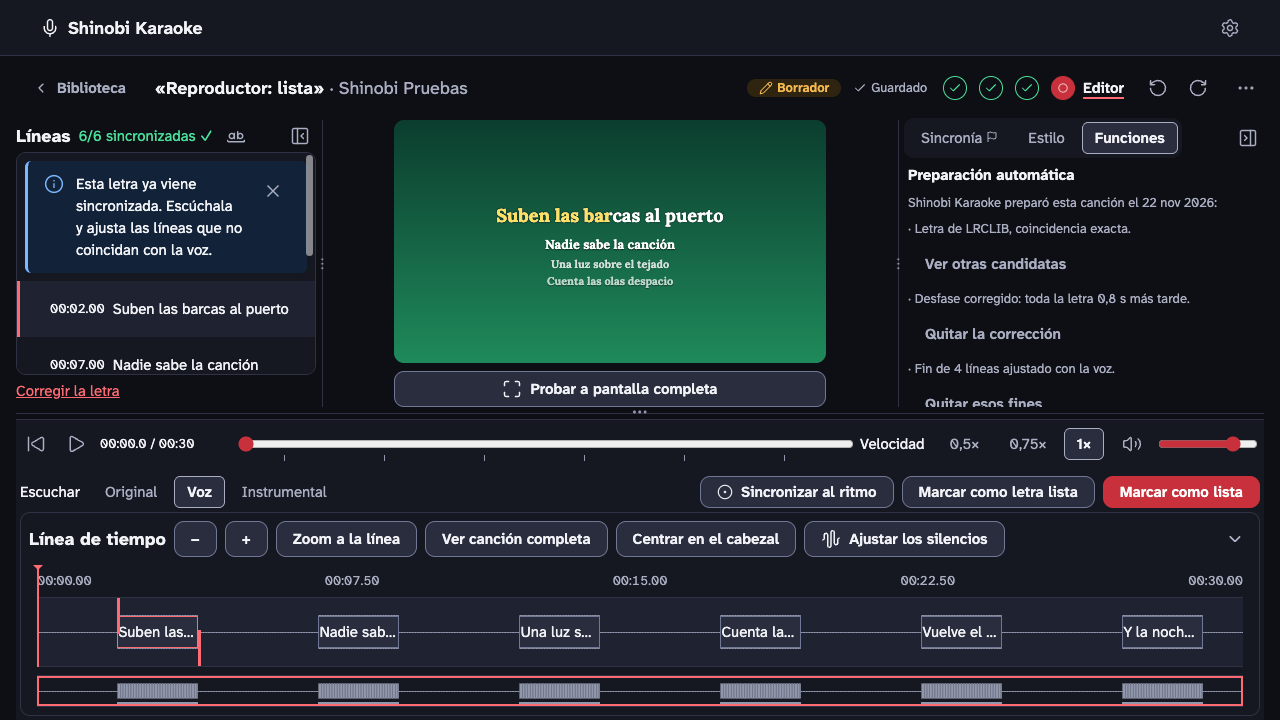
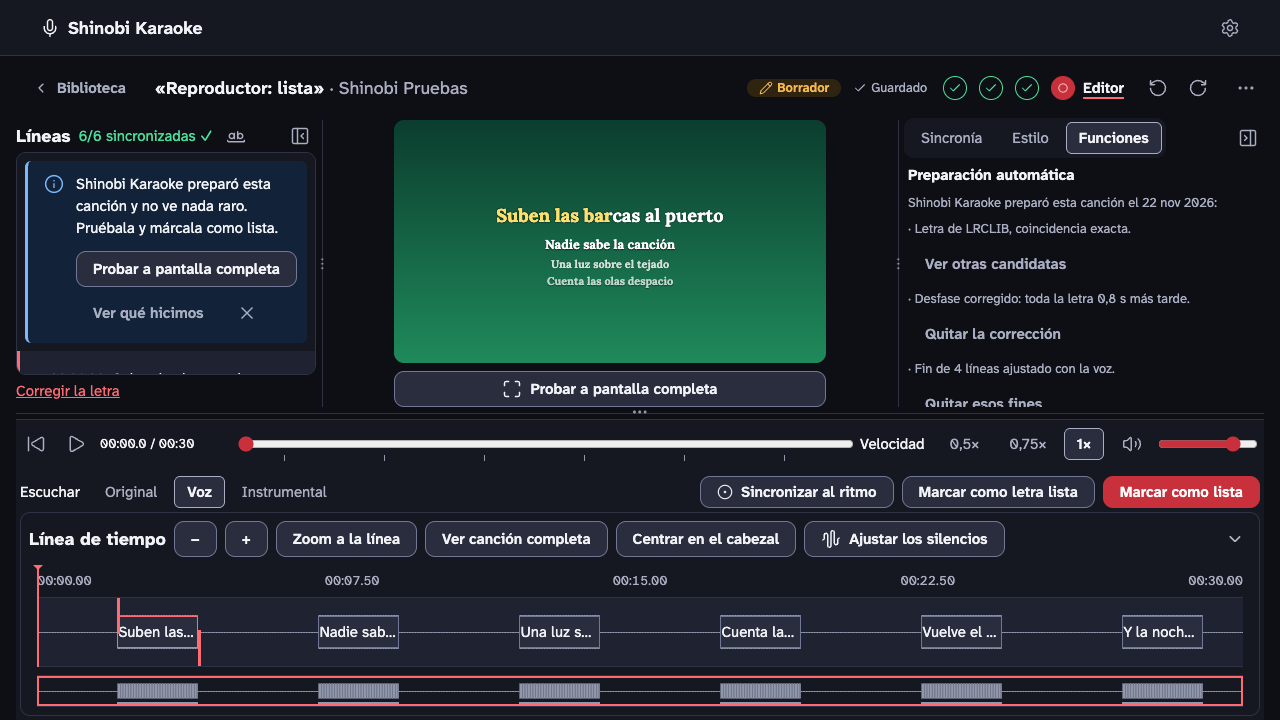
Opción prudente del encaje en las specs (No está claro con motivo, «Ajustar los fines…» con confirmación); tareas 0315 y 0316 hechas; pregunta 0285
Claude-Session: https://claude.ai/code/session_01CwzfmPpxsz6LQucdx3rwJV

Changed region(s): [[0.0, 0.2139, 0.25, 0.4583], [0.7812, 0.1528, 0.9375, 0.2139], [0.0312, 0.4889, 0.2188, 0.5194]]

diff --git a/ux/05-letra.md b/ux/05-letra.md
@@ -246,14 +246,18 @@ La comprobación da un **veredicto** por letra:
 
 | Veredicto | Qué significa para el usuario | Icono y color | Texto en el candidato |
 |---|---|---|---|
-| `coincide` | Las líneas empiezan donde empieza la voz. | `check` · `exito` | `let.comp.coincide` |
+| `coincide` | Las líneas empiezan donde empieza la voz **y** la comprobación habría notado si la letra fuera movida (revisión 2026-11-22, ADR 0024: contraste suficiente y voz con pausas). | `check` · `exito` | `let.comp.coincide` |
 | `desfasada` | Toda la letra va adelantada o atrasada la misma cantidad `d` (entre 0,5 s y 5 s); movida esa cantidad, coincide. | `move-horizontal` · `info` | `let.comp.adelantada` / `let.comp.atrasada` |
-| `dudosa` | Ni encaja con claridad ni falla con claridad (mucha voz sin letra por coros, pocas líneas, voz muy tenue). | `circle-help` · `texto-2` | `let.comp.dudosa` |
+| `dudosa` | Ni encaja con claridad ni falla con claridad (mucha voz sin letra por coros, pocas líneas, voz muy tenue), **o la comprobación no puede saberlo con esta voz o esta letra** (`limitacion`, abajo). | `circle-help` · `texto-2` | `let.comp.dudosa` (sin limitación) · `let.comp.dudosa.limitada` (con limitación) |
 | `no_coincide` | Muchas líneas caen en silencio o hay tramos largos de voz sin letra, también después de probar a moverla. Un desfase que no es constante entra aquí: no se arregla moviendo. | `triangle-alert` · `aviso` | `let.comp.noCoincide` |
 | `pendiente` | Aún no hay voz separada o su forma de onda se está preparando. | `clock` · `texto-3` | `let.comp.pendiente` |
 | `no_disponible` | No se pudo leer la voz (pistas que faltan, error de la forma de onda). | — · `texto-3` | `let.comp.noDisponible` |
 | (sin tiempos) | Letra «Solo texto». | — | No se muestra línea de comprobación. |
 
+- **Limitación de la comprobación** (revisión 2026-11-22, [ADR 0024](../adr/0024-encaje-de-la-letra-con-la-voz-y-lineas-dudosas.md) «Medida con canciones reales», respuesta a [0275](../preguntas/0275-la-correccion-de-desfase-no-funciona-con-letras-sin-fines-y-las-constantes-no-aguantan.md); provisional, [0280](../preguntas/0280-que-hace-hoy-la-comprobacion-de-la-letra-con-tus-canciones.md)). Un veredicto `dudosa` puede traer `limitacion`:
+  - `vozContinua`: la voz suena casi sin pausas; con ella no se puede saber si la letra es la correcta ni si va adelantada.
+  - `sinContraste`: mover la letra un poco casi no cambia el resultado (típico de las letras de LRCLIB que solo traen el inicio de cada línea), así que no se puede saber si va adelantada o atrasada.
+  Con una limitación **no es un aviso ni un error**: es información. Se pinta igual que `dudosa` (icono `circle-help`, `texto-2`, nunca `aviso`), **nunca se propone corregir el desfase** ni se ofrece «Buscar otra letra» como acción destacada, y los textos dicen qué no se pudo comprobar y qué puede hacer la persona (escucharla y ajustarla a oído en el editor; con `sinContraste`, poner el fin de las líneas ayuda). Todos acaban dejando claro que no se ha cambiado nada. Con letras de LRCLIB sin fines, «No está claro» será lo habitual (provisional, 0154 n.º 19).
 - **«Adelantada»** = la letra sale antes que la voz; se corrige moviéndola **más tarde**. «Atrasada», al revés.
 - El desfase se muestra con un decimal («0,8 s») y se aplica con precisión de milisegundo. Por debajo de 0,5 s no se propone nada: es `coincide` (valor del [ADR 0024](../adr/0024-encaje-de-la-letra-con-la-voz-y-lineas-dudosas.md) §1, medido con la biblioteca del usuario: por debajo, la medida no distingue una letra correcta; pregunta [0159](../preguntas/0159-decisiones-provisionales-del-arquitecto-de-0-2-2.md) n.º 7).
 - Los umbrales entre veredictos los fija el arquitecto y los calibra QA con las 12 canciones Lista del usuario (ADR de la feature 4). La spec fija el comportamiento: ante la duda, `dudosa`, nunca una corrección.
@@ -380,7 +384,11 @@ La comprobación da un **veredicto** por letra:
 | `let.comp.pendiente` | Se comprobará con tu audio al terminar la separación |
 | `let.comp.noDisponible` | No se pudo comprobar con tu audio |
 | `let.comp.desfase.ayuda` | Toda la letra sale {d} s antes que la voz. Al usarla la moveremos {d} s más tarde. Los tiempos de abajo ya están corregidos. · (atrasada) Toda la letra sale {d} s después que la voz. Al usarla la moveremos {d} s antes. Los tiempos de abajo ya están corregidos. |
-| `let.comp.dudosa.ayuda` | Parte de la letra coincide con la voz y parte no. Puede deberse a coros o a partes sin letra. Escúchala en el editor antes de darla por buena. |
+| `let.comp.dudosa.ayuda` | Parte de la letra coincide con la voz y parte no. Puede deberse a coros o a partes sin letra. Escúchala en el editor antes de darla por buena. (Solo sin `limitacion`.) |
+| `let.comp.dudosa.limitada` | No podemos comprobarla con tu audio |
+| `let.comp.limitacion.vozContinua` | En esta canción la voz suena casi sin pausas, así que no podemos comprobar con ella si la letra es la correcta ni si va adelantada o atrasada. No hemos cambiado nada. Escúchala en el editor y, si hace falta, ajústala a oído. |
+| `let.comp.limitacion.sinContraste` | Esta letra solo marca dónde empieza cada línea, no dónde acaba, así que no podemos saber si va adelantada o atrasada. No hemos cambiado nada. Escúchala en el editor; si pones el fin de las líneas, la comprobación podrá ayudarte. |
+| `let.comp.actual.limitada` | No podemos comprobar esta letra con tu audio: {motivo corto}. No hemos cambiado nada. — `{motivo corto}`: (vozContinua) la voz casi no tiene pausas · (sinContraste) la letra no marca dónde acaba cada línea |
 | `let.comp.noCoincide.ayuda` | Puede ser otra versión de la canción. Prueba con otra letra o revísala en el editor. |
 | `let.comp.detalle.silencio` | {n} de {total} líneas caen donde no hay voz (de {a} a {b}). · (varios tramos) {n} de {total} líneas caen donde no hay voz. · (n = 1) 1 de {total} líneas cae donde no hay voz ({a}). |
 | `let.comp.detalle.vozSinLetra` | Hay voz sin letra de {a} a {b}. · (varios) Hay voz sin letra en {k} tramos; el más largo, de {a} a {b}. |
@@ -390,7 +398,7 @@ La comprobación da un **veredicto** por letra:
 | `let.comp.actual.corregida` | Movimos toda la letra {d} s más tarde para que coincida con la voz. — [Quitar la corrección] · (atrasada) Movimos toda la letra {d} s antes para que coincida con la voz. — [Quitar la corrección] |
 | `let.comp.actual.adelantada` | Toda la letra va {d} s adelantada respecto a la voz. — [Corregir el desfase] |
 | `let.comp.actual.atrasada` | Toda la letra va {d} s atrasada respecto a la voz. — [Corregir el desfase] |
-| `let.comp.actual.dudosa` | No está claro si la letra coincide con la voz. Escúchala en el editor. |
+| `let.comp.actual.dudosa` | No está claro si la letra coincide con la voz. Escúchala en el editor. (Solo sin `limitacion`; con ella, `let.comp.actual.limitada`.) |
 | `let.comp.actual.noCoincide` | La letra no coincide con la voz de tu audio: puede ser otra versión. — [Ver por qué] [Buscar otra letra] |
 | `let.comp.actual.pendiente` | La comprobaremos con tu audio al terminar la separación. |
 | `let.comp.boton.corregir` | Corregir el desfase |
@@ -406,7 +414,7 @@ La comprobación da un **veredicto** por letra:
 ### Criterios de aceptación (0.2.2 · feature 4, Letra)
 
 - F4-L1. Con la voz separada, cada candidato con tiempos muestra su línea de comprobación con icono y texto según la tabla de veredictos; un candidato «Solo texto» no la muestra. Con veredicto concluyente no se muestra la línea de duración; con `dudosa`, `pendiente` o `no_disponible`, sí.
-- F4-L2. Con fixtures de picos y letra (test de la función pura): una letra con los inicios sobre los arranques de voz da `coincide`; la misma movida −800 ms da `desfasada` con `d = 800 ms` ± 50 ms («adelantada»); movida +1500 ms, «atrasada»; la letra de otra canción da `no_coincide`; una letra con un desfase que crece de 0 a 3 s da `no_coincide` con `let.comp.detalle.variable`; una letra con 2 líneas da «sin comprobar».
+- F4-L2. Con fixtures de picos y letra (test de la función pura): una letra con los inicios sobre los arranques de voz da `coincide`; la misma movida −800 ms da `desfasada` con `d = 800 ms` ± 50 ms («adelantada»); movida +1500 ms, «atrasada»; la letra de otra canción da `no_coincide`; una letra con un desfase que crece de 0 a 3 s da `no_coincide` con `let.comp.detalle.variable`; una letra con 2 líneas da «sin comprobar». Además (revisión 2026-11-22): con voz casi continua (≥ 90 % de bloques con voz), la letra correcta da `dudosa` con `limitacion: "vozContinua"` y nunca propone corrección; una letra **sin fines** desplazada 800 ms **nunca** da `coincide` (da `dudosa` con `sinContraste`, o `desfasada` si la curva tiene pico). En la interfaz, cada limitación muestra `let.comp.dudosa.limitada` en el candidato, su texto `let.comp.limitacion.*` en la vista previa y `let.comp.actual.limitada` en C, con icono `circle-help` en `texto-2` y sin [Corregir el desfase].
 - F4-L3. La lista sale ordenada por los cuatro grupos de «Orden» y, dentro de cada uno, como en el criterio 3 original; el primero queda seleccionado con su vista previa.
 - F4-L4. Al seleccionar un candidato `desfasada`, la vista previa muestra `let.comp.desfase.ayuda` y los tiempos ya corregidos; al seleccionar uno `no_coincide`, los motivos con sus tramos en m:ss.
 - F4-L5. «Usar esta letra» sobre un candidato `desfasada` guarda en `cancion.json` los `inicio_ms`, `fin_ms` y palabras **idénticos** a los del candidato (comparación exacta en ms), `letra.offset_ms = d` redondeado a 10 ms y `letra.desfase_corregido_ms = d`; C muestra `let.comp.actual.corregida`. [Quitar la corrección] deja `offset_ms` en el valor previo (0) y sin `desfase_corregido_ms`, sin tocar ningún tiempo de línea, y muestra la propuesta con [Corregir el desfase], que vuelve a corregir.
@@ -416,7 +424,9 @@ La comprobación da un **veredicto** por letra:
 - F4-L9. Pegar o importar un LRC muestra en C su veredicto; una letra sin tiempos no muestra línea de comprobación.
 - F4-L10. El nombre accesible de cada opción incluye su comprobación; `let.comp.llegada` se anuncia una vez sin mover el foco; corregir y quitar se anuncian con `let.comp.anuncio.*`. Todo es operable con teclado.
 - F4-L11. Un fallo de escritura al corregir o quitar deja los tiempos como estaban y muestra `let.comp.error.guardar`.
-- F4-L12. Capturas en `docs/ux/revisiones/0.2.2-feature-4/`, nombre `letra-1280x800-100-{estado}.png`: `candidatos-comprobados`, `candidato-desfasado`, `candidato-no-coincide`, `comprobacion-pendiente`, `aviso-llegada`, `actual-corregida`, `actual-propuesta`, `actual-no-coincide`.
+- F4-L12. Capturas en `docs/ux/revisiones/0.2.2-feature-4/`, nombre `letra-1280x800-100-{estado}.png`: `candidatos-comprobados`, `candidato-desfasado`, `candidato-no-coincide`, `comprobacion-pendiente`, `aviso-llegada`, `actual-corregida`, `actual-propuesta`, `actual-no-coincide`, y (revisión 2026-11-22) `candidato-limitado` (un candidato de LRCLIB sin fines con `sinContraste` seleccionado) y `actual-limitada`.
+
+**Verificación manual** (guía de `docs/Test-manuales/0.2.2/`, revisión 2026-11-22): con una letra correcta, el veredicto debe ser «Coincide» **o** «No está claro» **con su motivo**, y **nunca** «No coincide». Con una letra de LRCLIB que solo trae el inicio de cada línea, lo esperado es «No está claro». Comprobar que el texto no suena a error y no ofrece corregir nada. La corrección de ±0,8 s se prueba con una canción con pausas y con fines puestos.
 
 **Verificación manual** (guía de `docs/Test-manuales/0.2.2/`): con tres canciones reales ya Listas, abrir Letra › «Buscar otra letra» y comprobar que la letra correcta sale como «Coincide»; con un LRC de esas mismas canciones movido a mano 1 s (editando las marcas), importarlo y comprobar que sale «atrasada 1,0 s» y que al corregir coincide al cantarla; con la letra de una versión en directo, comprobar que sale «No coincide» o «No está claro», nunca una corrección; anotar cualquier canción con coros largos que salga como «No está claro» para calibrar.
 
@@ -478,6 +488,7 @@ Origen: [plan 0.2.2, feature 5](../versiones/0.2.2/plan-4.md) y [propuesta 020](
 | `let.prep.motivo.sinArtista` | falta el artista de la canción: escríbelo arriba y vuelve a buscar, o elige tú (tiene prioridad sobre los demás motivos cuando el artista está vacío; respuesta a 0244 n.º 3) |
 | `let.prep.motivo.sinExacta` | aunque alguna encaja con tu audio, ninguna coincide a la vez en título, artista y duración con tu canción · (ninguna encaja con el audio) ninguna coincide a la vez en título, artista y duración con tu canción |
 | `let.prep.motivo.duda` | no está claro que coincida con tu audio |
+| `let.prep.motivo.limitada` | no podemos comprobarlas con tu audio: la voz casi no tiene pausas o las letras no marcan dónde acaba cada línea (cuando el mejor candidato es `dudosa` con limitación; revisión 2026-11-22) |
 | `let.prep.motivo.noCoincide` | ninguna coincide con tu audio |
 | `let.prep.motivo.soloTexto` | solo hay letras sin sincronizar |
 | `let.prep.motivo.sinComprobar` | no pudimos comprobarla con tu audio |

diff --git a/ux/06-editor.md b/ux/06-editor.md
@@ -2767,7 +2767,7 @@ Origen: [plan 0.2.2, feature 4](../versiones/0.2.2/plan-4.md) y [propuesta 022](
 | **Resultado `coincide`** | Sin diálogo: toast `edi.comprobar.toast.coincide` (`exito`, se cierra solo) y anuncio. Foco en el botón. |
 | **Resultado `desfasada`** | Diálogo «¿Corregir el desfase?» (abajo). |
 | **Resultado `no_coincide`** | Diálogo informativo «La letra no encaja con la voz» (abajo). |
-| **Resultado `dudosa`** | Diálogo informativo `edi.comprobar.dudosa` con [Cerrar]. No propone nada. |
+| **Resultado `dudosa`** | Diálogo informativo `edi.comprobar.dudosa` con [Cerrar]. No propone nada. **Con `limitacion`** (revisión 2026-11-22, [05 · Feature 4](05-letra.md#022--feature-4--comprobar-la-letra-contra-el-audio-y-corregir-el-desfase)): el mismo diálogo con el título `edi.comprobar.limitada.titulo` y el cuerpo `edi.comprobar.limitada.vozContinua` o `.sinContraste`; sin icono de aviso (icono `circle-help`, `texto-2`), sin [Corregir el desfase] ni [Buscar otra letra]; solo [Cerrar]. El banner al entrar no sale con `dudosa` (como hasta ahora). |
 | **Línea «Desfase corregido»** | Visible mientras exista `letra.desfase_corregido_ms` (corrección hecha aquí, en Letra o por la preparación automática). [Quitar la corrección] resta `desfase_corregido_ms` de `offset_ms` y borra el campo (ADR 0024 §1): la letra vuelve a sonar donde sonaba antes de corregir, en **un paso** del historial, con el toast `edi.desfase.toast.quitada` y [Deshacer]. |
 
 ### Diálogo «¿Corregir el desfase?» (480 px)
@@ -2856,7 +2856,10 @@ Al abrir el editor de un **borrador** con ≥ 5 líneas con inicio y los picos l
 | `edi.comprobar.calculando` | Comprobando… |
 | `edi.comprobar.falta.lineas` | Para comprobar la letra hacen falta al menos 5 líneas sincronizadas. |
 | `edi.comprobar.toast.coincide` | La letra coincide con la voz. |
-| `edi.comprobar.dudosa` | **No está claro si la letra coincide con la voz.** Parte coincide y parte no; puede deberse a coros o a partes sin letra. No hemos cambiado nada. — [Cerrar] |
+| `edi.comprobar.dudosa` | **No está claro si la letra coincide con la voz.** Parte coincide y parte no; puede deberse a coros o a partes sin letra. No hemos cambiado nada. — [Cerrar] (solo sin `limitacion`) |
+| `edi.comprobar.limitada.titulo` | No podemos comprobar esta letra con la voz |
+| `edi.comprobar.limitada.vozContinua` | En esta canción la voz suena casi sin pausas, así que no podemos saber si la letra va adelantada o atrasada. No hemos cambiado nada. Escúchala y, si notas que va antes o después de la voz, ajusta las líneas a oído. — [Cerrar] |
+| `edi.comprobar.limitada.sinContraste` | Esta letra solo marca dónde empieza cada línea, no dónde acaba, así que mover la letra apenas cambia nada y no podemos saber si va adelantada o atrasada. No hemos cambiado nada. Escúchala; si pones el fin de las líneas (por ejemplo con «Ajustar los silencios»), podrás volver a comprobarla. — [Cerrar] |
 | `edi.comprobar.noCoincide.titulo` | La letra no encaja con la voz |
 | `edi.comprobar.noCoincide` | Puede ser la letra de otra versión de la canción. |
 | `edi.comprobar.noCoincide.pie` | No se puede arreglar moviendo toda la letra. |
@@ -2877,7 +2880,7 @@ Al abrir el editor de un **borrador** con ≥ 5 líneas con inicio y los picos l
 ### Criterios de aceptación (0.2.2 · feature 4, editor)
 
 - F4-E1. La pestaña «Funciones» tiene la sección «Comprobar la letra con la voz» justo antes de «Ajustar los silencios» y en el orden común de la pestaña (Preparación automática · Revisar la sincronía · Sincronizar con la voz · Comprobar la letra con la voz · Ajustar los silencios · Exportar video · Exportar la letra · Modo de reproducción · Estado de la canción, omitiendo las que no existan), con su botón secundario; con menos de 5 líneas con inicio, la separación sin terminar o los picos sin preparar, el botón es `aria-disabled` y muestra su motivo debajo, que se actualiza en vivo.
-- F4-E2. Con una letra que coincide, pulsar el botón muestra `edi.comprobar.toast.coincide` y no cambia `cancion.json`.
+- F4-E2. Con una letra que coincide, pulsar el botón muestra `edi.comprobar.toast.coincide` y no cambia `cancion.json`. Con voz casi continua (fixture) muestra el diálogo con `edi.comprobar.limitada.vozContinua`; con una letra sin fines desplazada 800 ms, nunca el toast de «coincide» (diálogo con `.sinContraste`, o el de corregir si la curva tiene pico). En los dos diálogos de limitación solo hay [Cerrar] y `cancion.json` no cambia.
 - F4-E3. Con una letra movida −800 ms respecto a la voz y `offset_ms: 0` (fixture), el diálogo dice «0,8 s adelantada» y el número de líneas; «Corregir el desfase», en una sola operación del historial, deja en `cancion.json` `letra.offset_ms` = 800 ± 50 ms (múltiplo de 10) y `letra.desfase_corregido_ms` igual a ese valor, con **todos** los `inicio_ms`, `fin_ms`, textos y palabras idénticos a los previos (comparación exacta en ms). La lista, las regiones y la vista previa muestran cada línea 0,8 s más tarde. Un Ctrl/Cmd + Z deja `offset_ms` en 0, sin `desfase_corregido_ms`, y quita la línea «Desfase corregido»; con un `offset_ms` previo distinto de 0, la corrección se **suma** a él.
 - F4-E4. Una línea con tiempos por palabra hechos a mano conserva sus `palabras` idénticas en el archivo tras la corrección (comparación exacta) y se muestran movidas `d` con la letra (tiempo mostrado = tiempo guardado + `offset_ms`); no aparece `edi.toast.palabras`; el diálogo mostró `edi.desfase.palabras`.
 - F4-E5. Tras corregir, la sección muestra `edi.desfase.corregido` con [Quitar la corrección], que en un paso del historial resta `desfase_corregido_ms` de `offset_ms` (vuelve al valor previo exacto), borra `desfase_corregido_ms` y no cambia ningún tiempo de línea; la línea «Desfase corregido» también aparece si `desfase_corregido_ms` lo escribió la vista Letra o la preparación automática.
@@ -2888,7 +2891,7 @@ Al abrir el editor de un **borrador** con ≥ 5 líneas con inicio y los picos l
 - F4-E10. En los seis viewports de la subfase 2.1, la sección y los dos diálogos no producen scroll de página; a 300 px de ancho del panel el botón no se parte.
 - F4-E11. Capturas en `docs/ux/revisiones/0.2.2-feature-4/`, nombre `editor-1280x720-100-{estado}.png`: `funciones-comprobar`, `funciones-comprobar-no-disponible`, `dialogo-desfase`, `dialogo-no-encaja`, `banner-desfase`, `desfase-corregido`.
 
-**Verificación manual** (guía de `docs/Test-manuales/0.2.2/`): en una canción real, mover a mano toda la letra con un LRC editado (1 s y 3 s) y comprobar que la corrección deja el barrido sobre la voz a oído; comprobar una canción con una intro hablada o coros largos y anotar si sale «No está claro»; comprobar que el diálogo de «no encaja» lleva a tramos donde de verdad falta o sobra letra.
+**Verificación manual** (guía de `docs/Test-manuales/0.2.2/`): en una canción real, mover a mano toda la letra con un LRC editado (1 s y 3 s) y comprobar que la corrección deja el barrido sobre la voz a oído; comprobar una canción con una intro hablada o coros largos y anotar si sale «No está claro»; con una letra correcta, el resultado es «Coincide» o «No está claro» con su motivo, nunca «No coincide» (con una letra de LRCLIB sin fines, lo esperado es «No está claro»); comprobar que el diálogo de «no encaja» lleva a tramos donde de verdad falta o sobra letra.
 
 ## 0.2.2 · Feature 5 — Preparación desatendida: lo que el editor cuenta
 
@@ -2933,6 +2936,7 @@ Primera sección de la pestaña, solo si la canción tiene registro de preparaci
 | Desfase | Hay una corrección recordada. | [Quitar la corrección]: la misma acción de la feature 4 (no se repite en su sección mientras este bloque exista). |
 | Fines | La preparación fijó fines (paso «Ajustar los fines», spec 04). | [Quitar esos fines]: vuelve a **automático** el fin de las líneas que la preparación fijó **y que siguen con ese mismo valor** (las que el usuario tocó después no cambian). Un paso del historial; toast `edi.prep.toast.fines` con [Deshacer]. |
 
+- Tras «Ajustar los fines…» sobre una letra sin marca (spec 02, revisión 2026-11-22), el bloque aparece solo con el renglón de fines y su [Quitar esos fines]; la intro dice `edi.prep.intro.fines`. No hay banner al entrar por esto (la canción no fue «preparada»: el usuario lo pidió y confirmó).
 - Un renglón desaparece cuando deja de ser cierto (letra sustituida, corrección quitada, ningún fin de la preparación en pie). Sin renglones, el bloque no se muestra.
 - Los botones son fantasma; ninguno pide confirmación porque todos se deshacen con Ctrl/Cmd + Z.
 - Si la feature 10 (alineación) hizo el paso de fines, el renglón y su acción los define su sección; este bloque solo le reserva el sitio.
@@ -2944,6 +2948,7 @@ Primera sección de la pestaña, solo si la canción tiene registro de preparaci
 | `edi.banner.preparada` | Shinobi Karaoke preparó esta canción sola. Escúchala, corrige lo que no coincida y márcala como lista. — [Ver qué hicimos] |
 | `edi.prep.titulo` | Preparación automática |
 | `edi.prep.intro` | Shinobi Karaoke preparó esta canción el {fecha}: |
+| `edi.prep.intro.fines` | El {fecha} pediste ajustar los fines que faltaban: |
 | `edi.prep.letra` | Letra de LRCLIB, coincidencia exacta. · (elegida por el usuario entre candidatas) Letra de LRCLIB, elegida por ti. |
 | `edi.prep.letra.boton` | Ver otras candidatas |
 | `edi.prep.desfase` | (= `edi.desfase.corregido`) |

diff --git a/tareas/0315-modo-lote-en-anadir-cancion.md b/tareas/0315-modo-lote-en-anadir-cancion.md
@@ -1,5 +1,5 @@
 # 0315 — Feature 7 · Modo lote en «Añadir canción»
-- Estado: Pendiente
+- Estado: Hecha
 - Paso del pipeline: 1
 - Depende de: 0314, 0304, 0375
 - ADRs: 0026
@@ -28,4 +28,13 @@ Tabla editable, acciones de columna, resumen y confirmación.
 - Siempre: `npm run typecheck`, `npm run lint`, `npm run format:check` y `npm run test:cambios` (y `uv run pytest` / `ruff` si toca el worker).
 
 ## Notas de implementación
-(las rellena el programador al terminar)
+**Hecho** (renderer; 16 pruebas de componente en `AnadirCancion.lote.test.tsx`, 8 del modelo, E2E `importar-lote.spec.ts` con la interfaz real)
+- `vistas/anadir/lote/`: `modelo.ts` (filas, 50 primeras marcadas, líneas de estado, comunes, resumen con `estimarEspacioLote`/`estimarTiempoLote`/`cuantasCaben`, `armarLote`), `enlaces.ts` (renglones: video, video con lista, lista, ignorados), `useTablaLote.ts` (edición, tope de 50, «para todas», deshacer), `TablaLote.tsx` (L2: `<table>` con caption, ↑/↓ entre filas, Espacio, Ctrl/Cmd+Intro, Esc, Ctrl/Cmd+Z, popovers «para todas», «Solo las que hay que comprobar», resumen con anuncio a 500 ms, `add.lote.sinEspacio`, descartar, «Leer el aviso»), `textosLote.ts`.
+- `PanelArchivo`: «Elegir archivos…» (`fuente.leerArchivos`) y «Elegir carpeta…»; soltar varios o una carpeta; L1 con Cancelar; una sola fila añadible sigue el flujo de una canción (`importarArchivo` con `fila.ruta`). `PanelYoutube`: área de enlaces (Intro busca, Mayús+Intro renglón), listas/álbumes, aviso de listas (un solo «Entendido» escribe `aviso_youtube_aceptado` si faltaba y `aviso_youtube_listas_aceptado`), `add.lote.ofertaLista`, `LISTA_NO_DISPONIBLE`. Cada entrada marcada se completa en segundo plano con `fuente.infoYoutube(watch?v=…&list=…)`.
+- Textos: `URL_NO_SOPORTADA` nuevo en `shared/avisos.ts`, `progreso/textos.ts`, `biblioteca/textosError.ts`; punto de listas en `AVISO_YOUTUBE`; microcopy A (`add.pregunta`, `add.origen.*`, `add.arrastre`, `add.boton.elegir`, `add.url.*`, `add.boton.buscar`). `add.varios` ya no se usa.
+- Compartido (aditivo): `shared/listaYoutube.ts` (`analizarUrlLista` movida desde main, que la reexporta), `filaLoteSchema` + `datos` (procedencia) y `ruta`, y `main/fuente/lote.ts` las rellena; `Vista.anadir.archivos` y `Vista.biblioteca.lote`; `CampoCombo` + `etiquetaOculta`/`abrirConFlechas`; arrastrar varios archivos o carpeta sobre la Biblioteca abre el modo lote (`useArrastrarArchivo`).
+- Arreglo menor del diseñador: icono del aviso de LRCLIB con `FilaConIcono`.
+- E2E de otras specs: textos nuevos (`Elegir archivos…`, `Enlaces de YouTube`, `Buscar`); `importar-youtube` usa una mezcla `RD…` como enlace «no soportado» (una lista `PL…` ahora es válida).
+- Criterios: F7-N1…N15 cumplidos salvo lo de la pregunta 0285 (progreso «i de n» de L1 y de «Añadiendo…», `{n}` de `ofertaLista`, «Importar paquete…» N15 no se muestra). N16: capturas sin tomar.
+- **Probar**: `npx vitest run src/renderer/src/vistas/anadir` y `npx playwright test e2e/importar-lote.spec.ts`.
+- **Deuda**: lista de autocompletado de una celda se recorta en el scroll de la tabla; sin velo `bib.arrastrar.soltarVarios` (la Biblioteca no tiene velo); tras Ajustes («Cambiar en Ajustes») con un archivo leído por «Elegir archivos…» no se restaura (sin ruta guardada si viene de otra vía).

diff --git a/preguntas/0285-detalles-de-la-interfaz-del-modo-lote-que-la-spec-no-fija-o-el-contrato-no-permite.md b/preguntas/0285-detalles-de-la-interfaz-del-modo-lote-que-la-spec-no-fija-o-el-contrato-no-permite.md
@@ -1,0 +1,24 @@
+# 0285 — Detalles del modo lote que la spec no fija o que el contrato no permite (0.2.2, feature 7)
+
+- De: programador
+- Para: disenador-ux
+- Estado: Abierta
+- Bloquea: no (opción conservadora aplicada en 0315 y 0316)
+
+## Contexto
+
+Al implementar las tareas 0315 y 0316 aparecen siete puntos donde la spec 03/04 no se puede cumplir al pie de la letra o no dice nada. En todos se ha aplicado la opción conservadora que se indica.
+
+## Puntos y opción aplicada
+
+1. **Progreso de L1 de archivos** (`add.lote.leyendo`, «Leyendo {i} de {n} archivos…»). `fuente.leerArchivos` es una sola llamada sin eventos de progreso y, con el diálogo nativo, `n` no se conoce hasta leer. Aplicado: barra indeterminada y «Leyendo {n} archivos…» al soltar (n conocido) o «Leyendo los archivos…» al elegir. Si se quiere «{i} de {n}», hace falta un evento de progreso en main.
+2. **`add.lote.ofertaLista` con «{n} videos»**: la lista no se consulta hasta pulsar, así que n no existe. Aplicado: «Este video está en una lista.» + [Añadir la lista entera].
+3. **`add.lote.anadiendo` «{i} de {n}»**: `fuente.lote` es una sola llamada. Aplicado: «Añadiendo…» con el botón en estado cargando.
+4. **Nombre de la carpeta** (`add.lote.origen.carpeta`): con «Elegir carpeta…» main no devuelve la ruta. Aplicado: al arrastrar una carpeta se usa su nombre; con el diálogo, el álbum que salió del nombre de la carpeta; si todos los archivos traen etiqueta de álbum, el origen dice «{n} archivos».
+5. **Videos de YouTube**: la lista solo trae título, canal y duración, así que el artista, el título limpio y la miniatura salen de `fuente.infoYoutube` video a video **en segundo plano** (uno cada vez, solo los marcados) mientras la tabla ya está a la vista (línea «Completando los datos…»). Para 50 videos reales son varios minutos; la spec dice «sin consultar video a video» en L1. «Añadir» no espera: crea con lo que haya en la tabla.
+6. **Tiempo de un lote de enlaces sueltos**: solo `infoLista` trae `factorMinutos`. Un lote de videos sueltos muestra el resumen sin tiempo (`add.lote.resumen.sinTiempo`).
+7. **«Importar paquete…»** (F7-N15): no se muestra todavía; la feature 9 vive en `vistas/biblioteca/paquete/` de otro programador y no hay forma pública de abrir su diálogo desde esta vista.
+
+Textos propios añadidos sin clave en la spec: «Completando los datos…», «Leyendo los archivos…», «Leyendo {n} archivos…», `act.cola.boton` cuenta la canción en curso («Preparando 3 de 5» cuando hay 2 terminadas) mientras el título de la cabecera cuenta las terminadas («2 de 5 canciones»).
+
+## Respuesta

diff --git a/tareas/0316-cola-de-lote-en-progreso-y-biblioteca.md b/tareas/0316-cola-de-lote-en-progreso-y-biblioteca.md
@@ -1,5 +1,5 @@
 # 0316 — Feature 7 · Cola de preparación de un lote en el progreso y la Biblioteca
-- Estado: Pendiente
+- Estado: Hecha
 - Paso del pipeline: 1
 - Depende de: 0309, 0315
 - ADRs: 0026, 0025 §5
@@ -21,4 +21,9 @@ Tanda, pausa, paradas y «Reintentar las fallidas» en la interfaz.
 - Siempre: `npm run typecheck`, `npm run lint`, `npm run format:check` y `npm run test:cambios` (y `uv run pytest` / `ruff` si toca el worker).
 
 ## Notas de implementación
-(las rellena el programador al terminar)
+**Hecho** (renderer; `IndicadorActividad.cola.test.tsx`, `DialogoCierre.test.tsx`, `modelo.test.ts`, `Biblioteca.preparacion.test.tsx`)
+- `navegacion/cola.ts` (textos `act.cola.*`, botón, resultados, ETA), `PanelCola.tsx` (cabecera con barra global monótona, Pausar/Reanudar, «Cancelar lo que falta…» con diálogo, avisos de paradas y sus salidas, nota `act.cola.sesion`, grupos plegables «En cola»/«Con error»/«Terminadas», [Reintentar las fallidas]), `useAnuncioCola.ts` (`role="status"` cada 10 s como máximo; pausa, paradas y final al momento) e `IndicadorActividad` (botón `act.cola.boton` / `.pausa` ⏸ / `.parada` ⚠; «Ver actividad» abre el panel por el evento `shinobi:abrir-actividad`). Solo con tanda de 2 o más canciones.
+- `Progreso`: `prog.cola.posicion` y `prog.cola.pausa` + [Reanudar la cola]. `DialogoCierre`: `cierre.cuerpo.cola`. Biblioteca: `bib.import.anadidas` con [Ver actividad] y [×], `bib.vacia.cuerpo`.
+- Cancelar lo que falta: `trabajos.cancelar` por cada trabajo y `preparacion.cancelar(id)`; «Reparar el motor» navega al flujo del primer arranque.
+- **Pendiente manual**: capturas `actividad-1280x800-100-{cola,cola-en-pausa,cola-youtube-parada,cola-con-errores,resultado,dialogo-cancelar}`, `biblioteca-…-lote-anadido`; F7-P11 (cerrar y reabrir con cola) y P9 con lector de pantalla.
+- **Límites**: el botón cuenta la canción en curso (terminadas+1) y la cabecera las terminadas; «faltan {m}» son canciones.

diff --git a/ux/04-progreso-pipeline.md b/ux/04-progreso-pipeline.md
@@ -361,6 +361,7 @@ R4 · Letra pendiente
 | **Elegir la letra** (R2) · **Añadir la letra** (R3, R4) | Abren la vista Letra en el estado de la spec 05, feature 5. |
 | **Reintentar** (R4) | Repite la búsqueda ahora; el subpaso vuelve a ⟳. |
 | **Stepper** | El paso 3 (Letra) muestra ⟳ mientras se busca o se comprueba y **!** (icono `circle-alert`, `aviso`, nombre accesible «necesita tu atención») en R2, R3 y R4. Sigue siendo navegable con las reglas de siempre. |
+| **«Ajustar los fines…» sobre una letra sin marca** (revisión 2026-11-22, spec 02) | No abre esta vista: se sigue desde la tarjeta y el panel de actividad. Si se abre la vista de la canción mientras corre, «Buscar la letra» y «Comprobar la letra con la voz» muestran «—» con `prog.prep.omitido.yaTieneLetra` y `prog.prep.omitido.sinMarca`, y solo «Ajustar los fines de línea» avanza. No hay bloque R al terminar: la canción conserva su estado. |
 | **Cancelar separación / descarga** | Sin cambios. Cancelar no borra las candidatas ya encontradas; la cadena se detiene y la tarjeta dice lo que falta. |
 | **Lector de pantalla** | Se anuncian el inicio y el resultado de cada subpaso nuevo, y el resultado final. |
 
@@ -413,6 +414,7 @@ R4 · Letra pendiente
 | `prog.prep.omitido.yaTieneLetra` | Ya tiene letra |
 | `prog.prep.omitido.sinLetra` | Falta la letra |
 | `prog.prep.omitido.desactivada` | Búsqueda automática desactivada |
+| `prog.prep.omitido.sinMarca` | Letra de una versión anterior: no se comprueba |
 | `prog.boton.verLetra` | Ver la letra |
 | `prog.prep.r1.titulo` | Lista para revisar |
 | `prog.prep.r1.letra` | Letra de LRCLIB, coincidencia exacta. |

diff --git a/preguntas/0154-decisiones-provisionales-de-ux-de-las-features-4-a-7.md b/preguntas/0154-decisiones-provisionales-de-ux-de-las-features-4-a-7.md
@@ -77,9 +77,19 @@ Siguiendo tu regla («por defecto se aplica la opción recomendada por el agente
     - **A (provisional).** La cola sigue; una nota sugiere pausarla si hay cortes de sonido.
     - B. La cola se pausa sola al abrir el reproductor en otra pantalla y se reanuda al cerrarlo.
 
+Añadidas el 2026-11-22, tras medir con 18 canciones tuyas (contexto en [0280](0280-que-hace-hoy-la-comprobacion-de-la-letra-con-tus-canciones.md)):
+
+18. **Canciones con letra de una versión anterior** (MVP o 0.2.1).
+    - **A (provisional).** No se les ofrece «Preparar» sino «Ajustar los fines…», que pide confirmación y solo pone fin a las líneas que no lo tienen, donde la voz se para claramente. Nunca mueve inicios ni la letra entera, y esos fines se pueden quitar. También en canciones ya «Lista».
+    - B. No ofrecer nada para esas canciones.
+    - C. Hacerlo sin preguntar.
+19. **Cómo se dice que la comprobación no puede saberlo.**
+    - **A (provisional).** «No podemos comprobarla con tu audio», en gris (no como aviso), con el motivo en palabras llanas (la voz casi no tiene pausas, o la letra no marca dónde acaba cada línea), que no se ha cambiado nada y qué puedes hacer (escucharla y ajustarla a oído, o poner los fines). Con letras de LRCLIB será lo habitual.
+    - B. No mostrar nada cuando no se puede comprobar.
+
 ## Opción provisional tomada (si no bloquea)
 
-La A en los 17 puntos.
+La A en los 19 puntos.
 
 ## Respuesta
 
